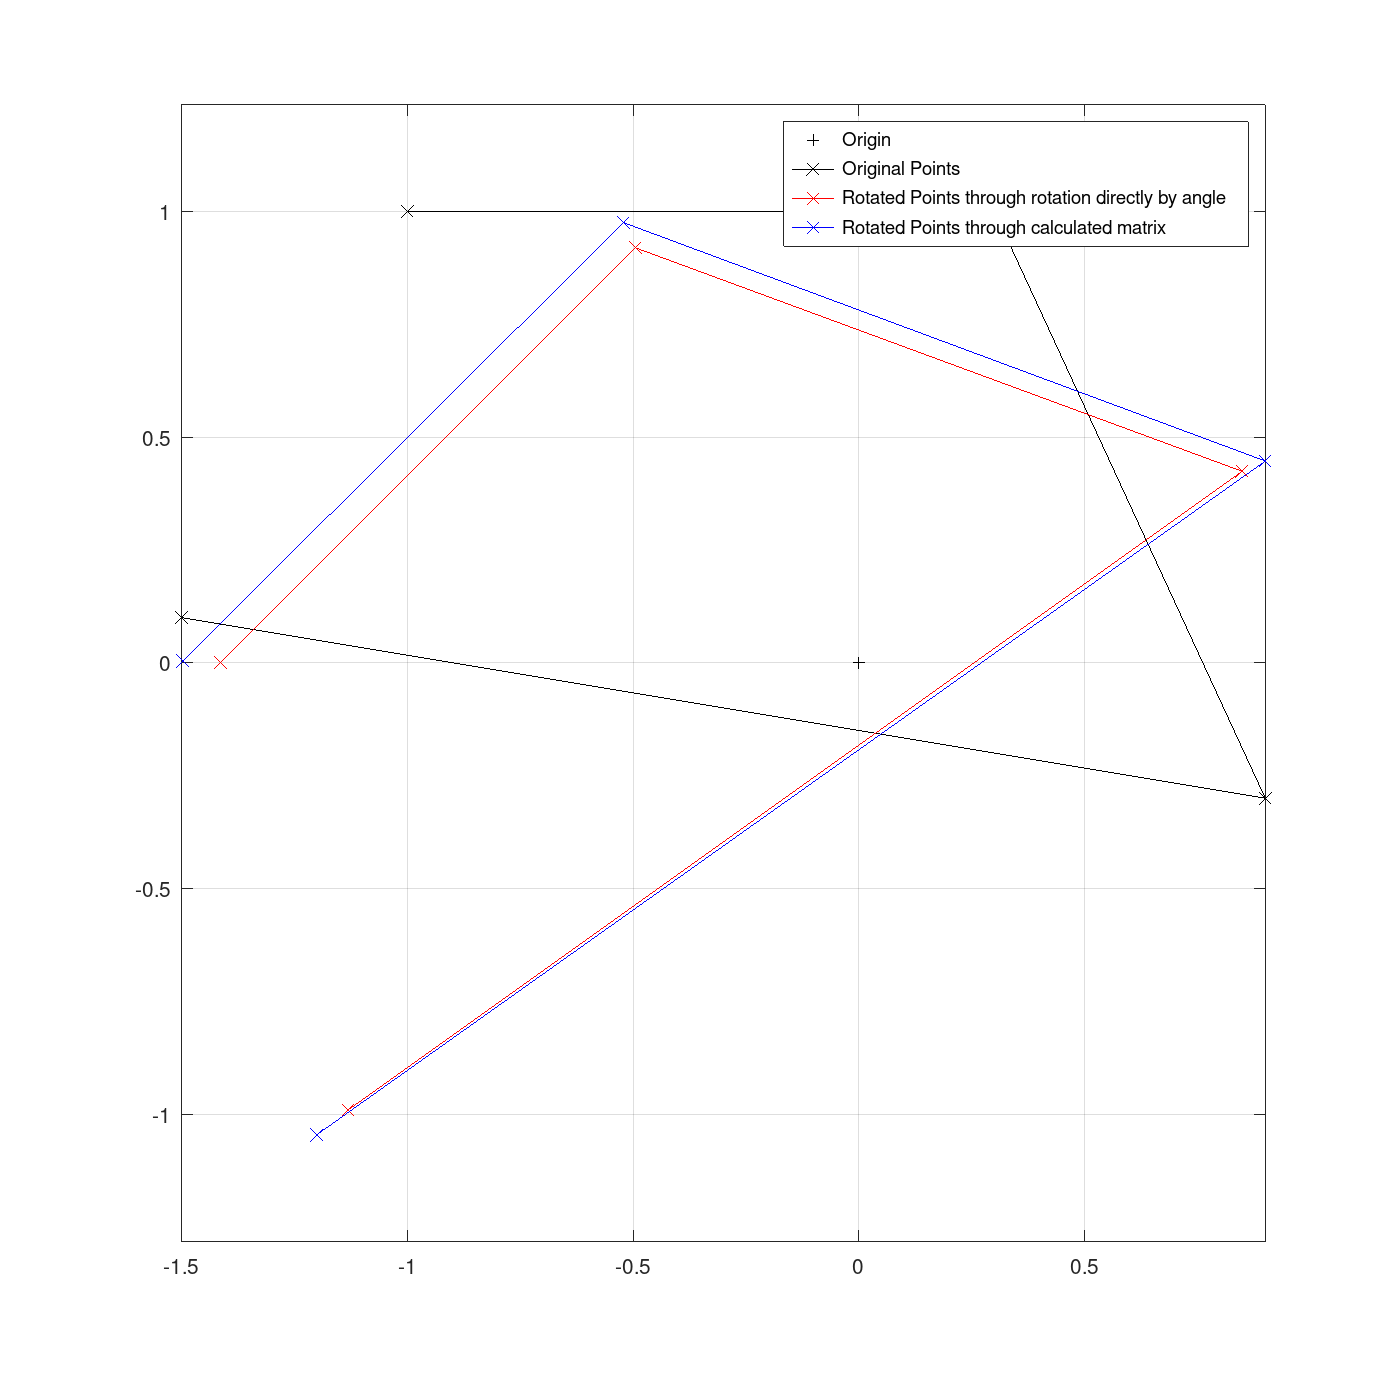
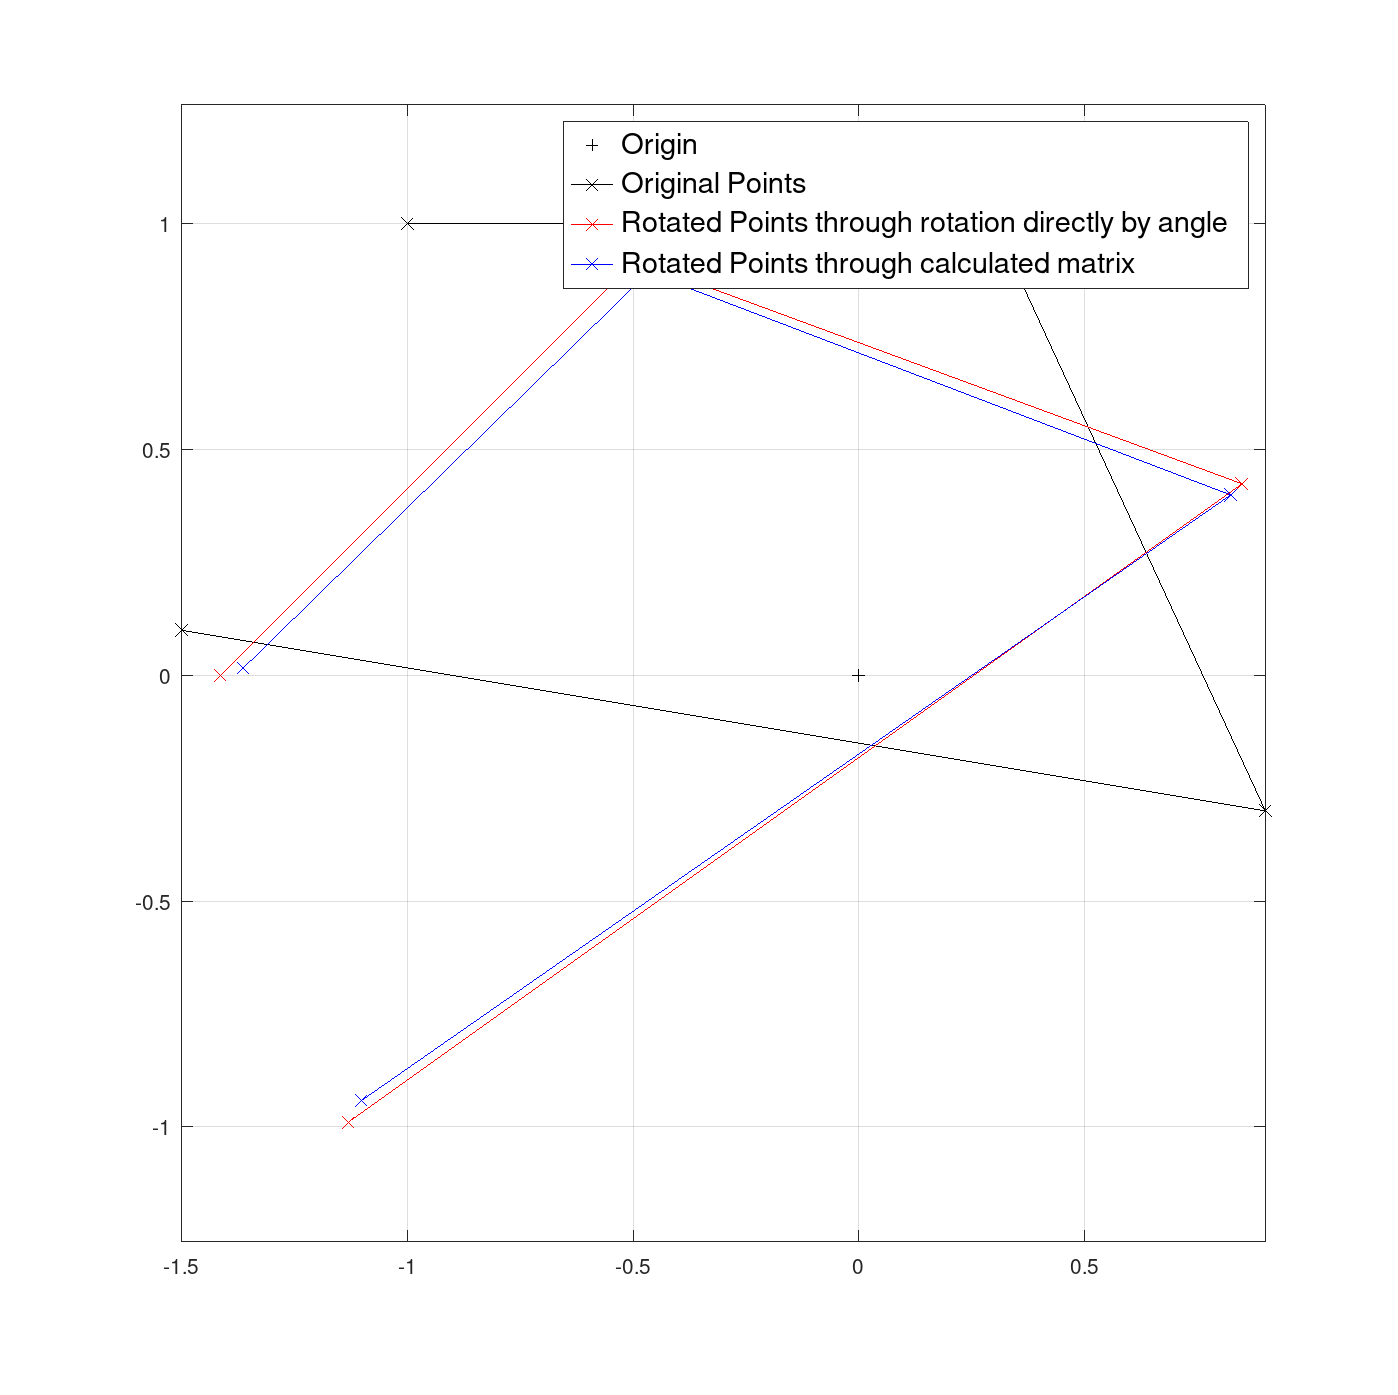
more and more fix

diff --git a/squeeze_matrix.m b/squeeze_matrix.m
@@ -15,4 +15,5 @@ plot(0,0,'+k', 'DisplayName', 'Origin');
 hold on; grid on;
 plot(points(1,:), points(2,:), 'x-k', 'DisplayName', 'Original Points');
 plot(coord_pts(1,:), coord_pts(2,:), 'x-b', 'DisplayName', 'Squeezed Points through calculated matrix');
+legend('Origin','Original Points', 'Squeezed Points through calculated matrix', 'FontSize', 16);
 legend show; axis equal;

diff --git a/rot_matrix.m b/rot_matrix.m
@@ -7,7 +7,7 @@ points = [x_points; y_points];
 theta = 45;
 rot_mat = [cosd(theta), -sind(theta);
            sind(theta),  cosd(theta)];
-coord_mat=[0.751,-0.747;0.747,0.751]
+coord_mat=[0.690,-0.674;0.674,0.690]
 
 % Rotate the points
 for p = 1:size(points,2)
